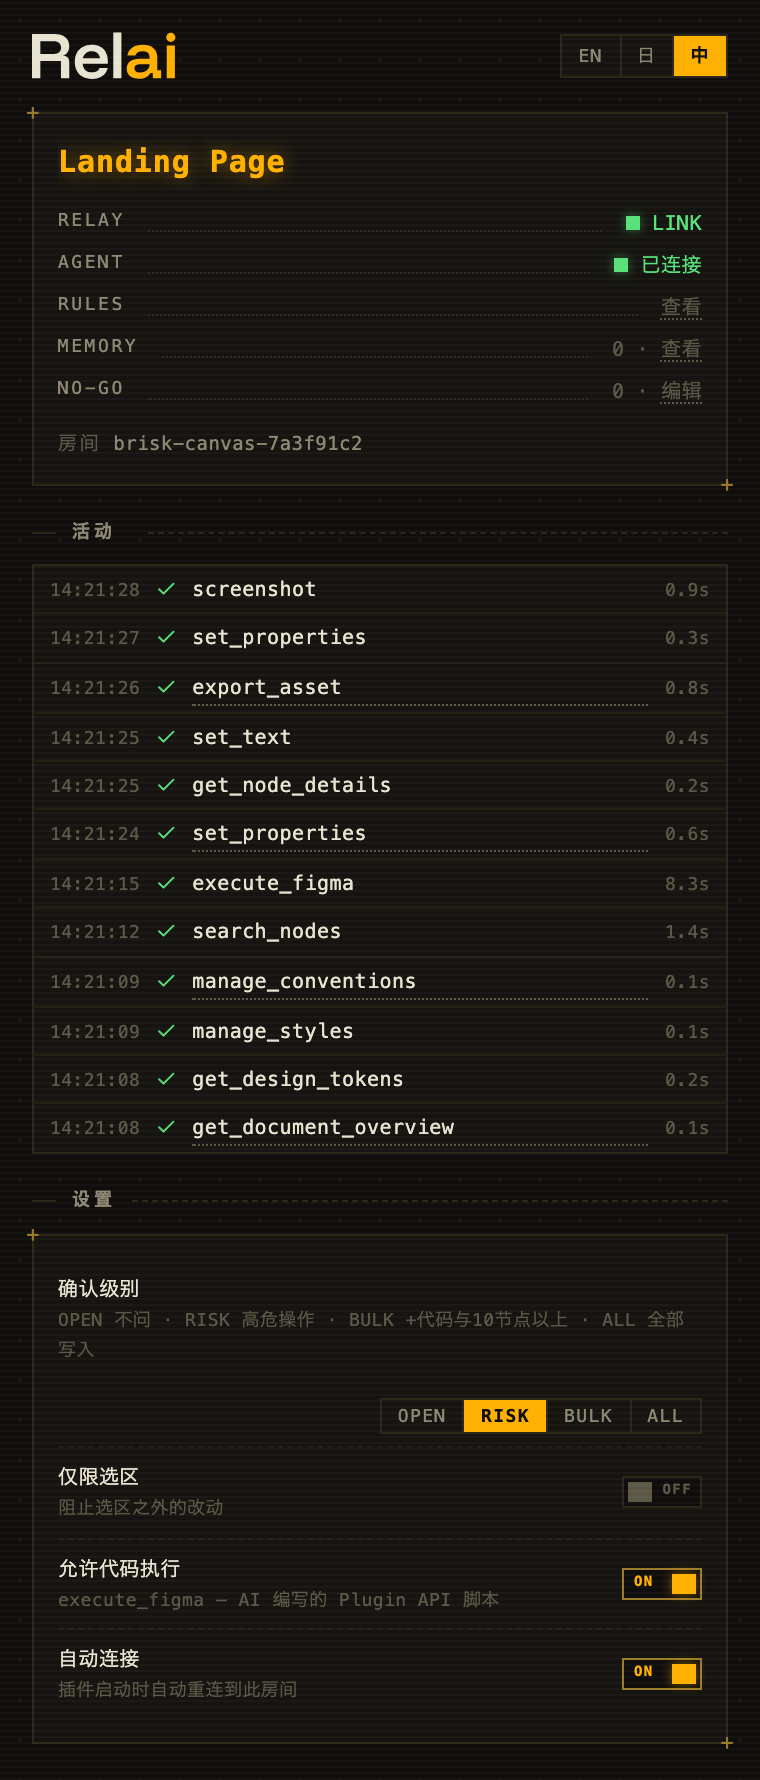
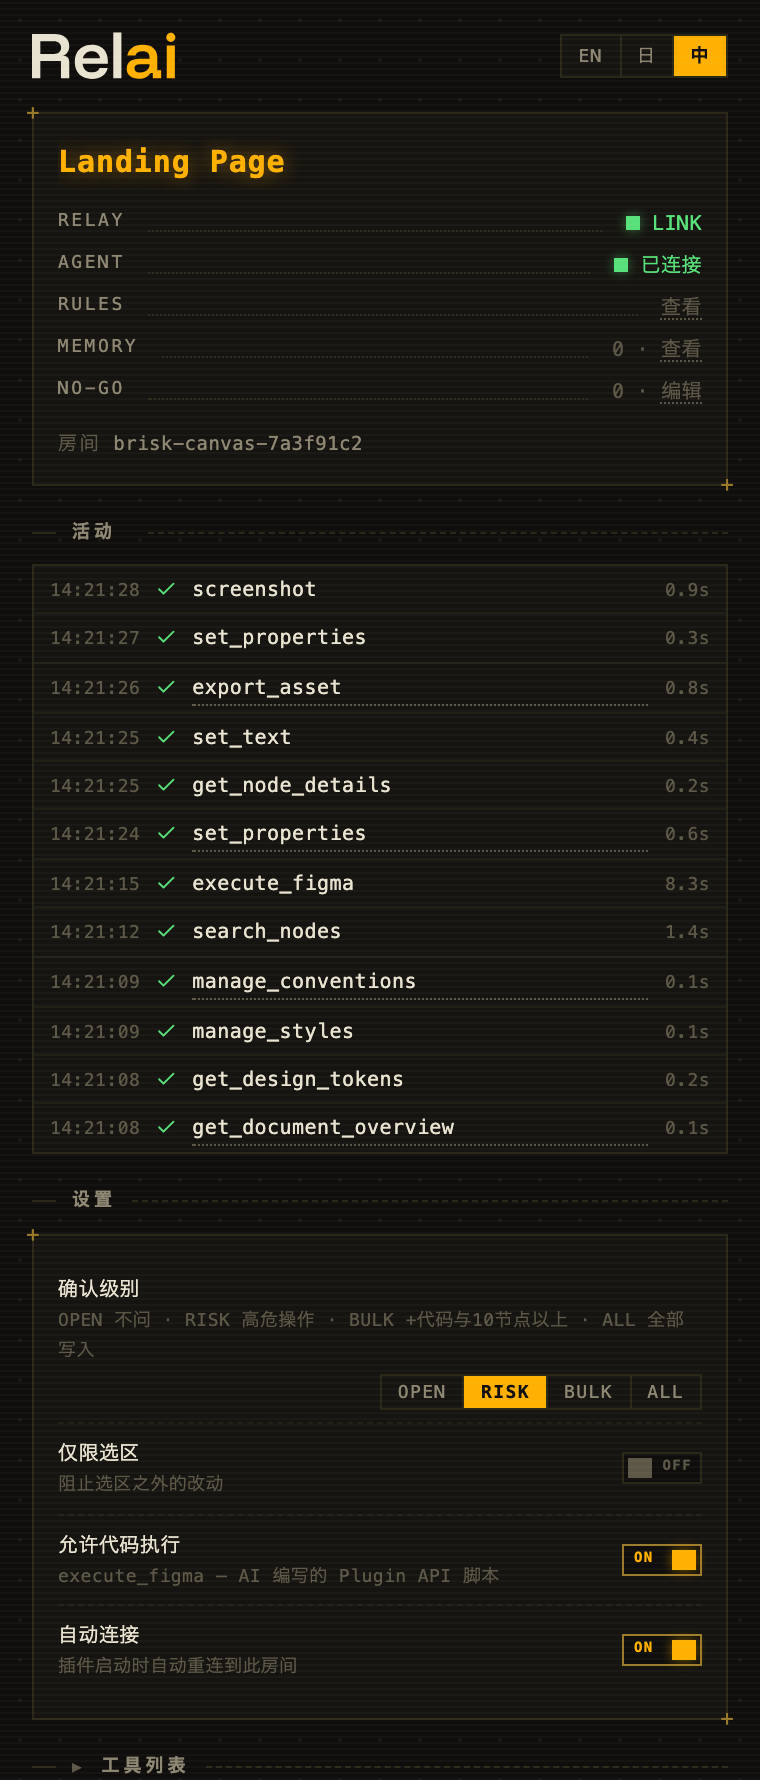
Plugin UI: tighten dial-row gap (stack drops the 12px flex gap)
Claude-Session: https://claude.ai/code/session_01LE9DxpFc66NXBEVTWs7co9

diff --git a/packages/figma-plugin/ui.html b/packages/figma-plugin/ui.html
@@ -374,7 +374,7 @@
       padding: var(--sp-6) 0;
     }
     .setting-row + .setting-row { border-top: 1px dashed var(--line-soft); }
-    .setting-row.stack { flex-direction: column; align-items: stretch; }
+    .setting-row.stack { flex-direction: column; align-items: stretch; gap: 0; }
     .setting-row.stack .seg { align-self: flex-end; margin-top: var(--sp-4); }
     .setting-row .label { font-size: 10px; color: var(--text); }
     .setting-row .sub { display: block; font-size: 9px; color: var(--faint); }
